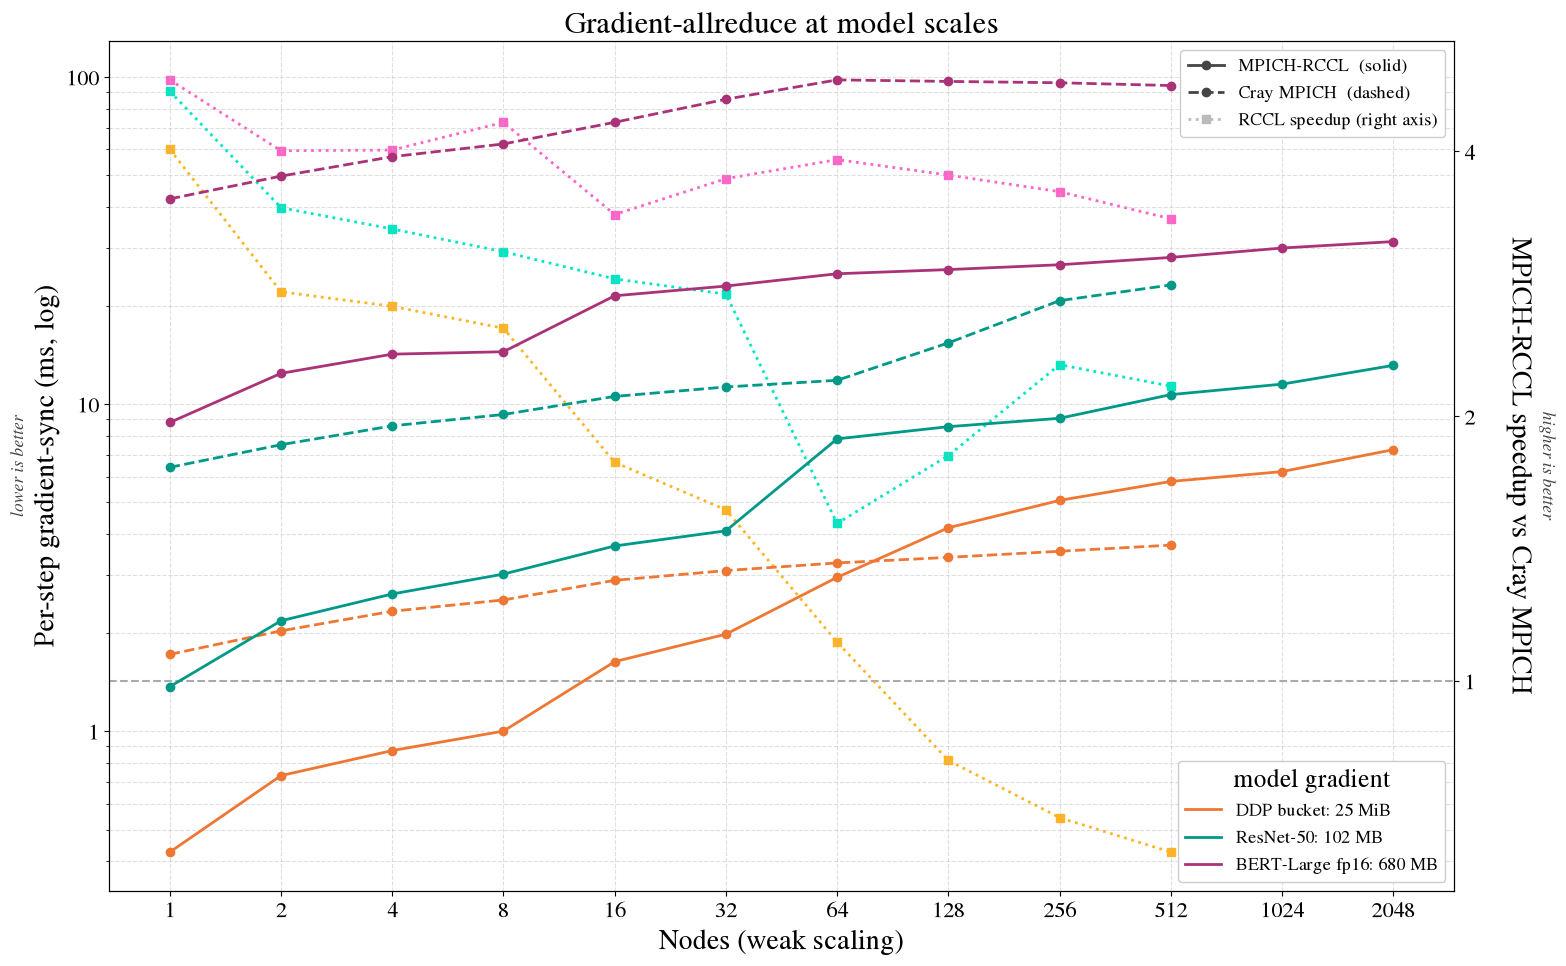
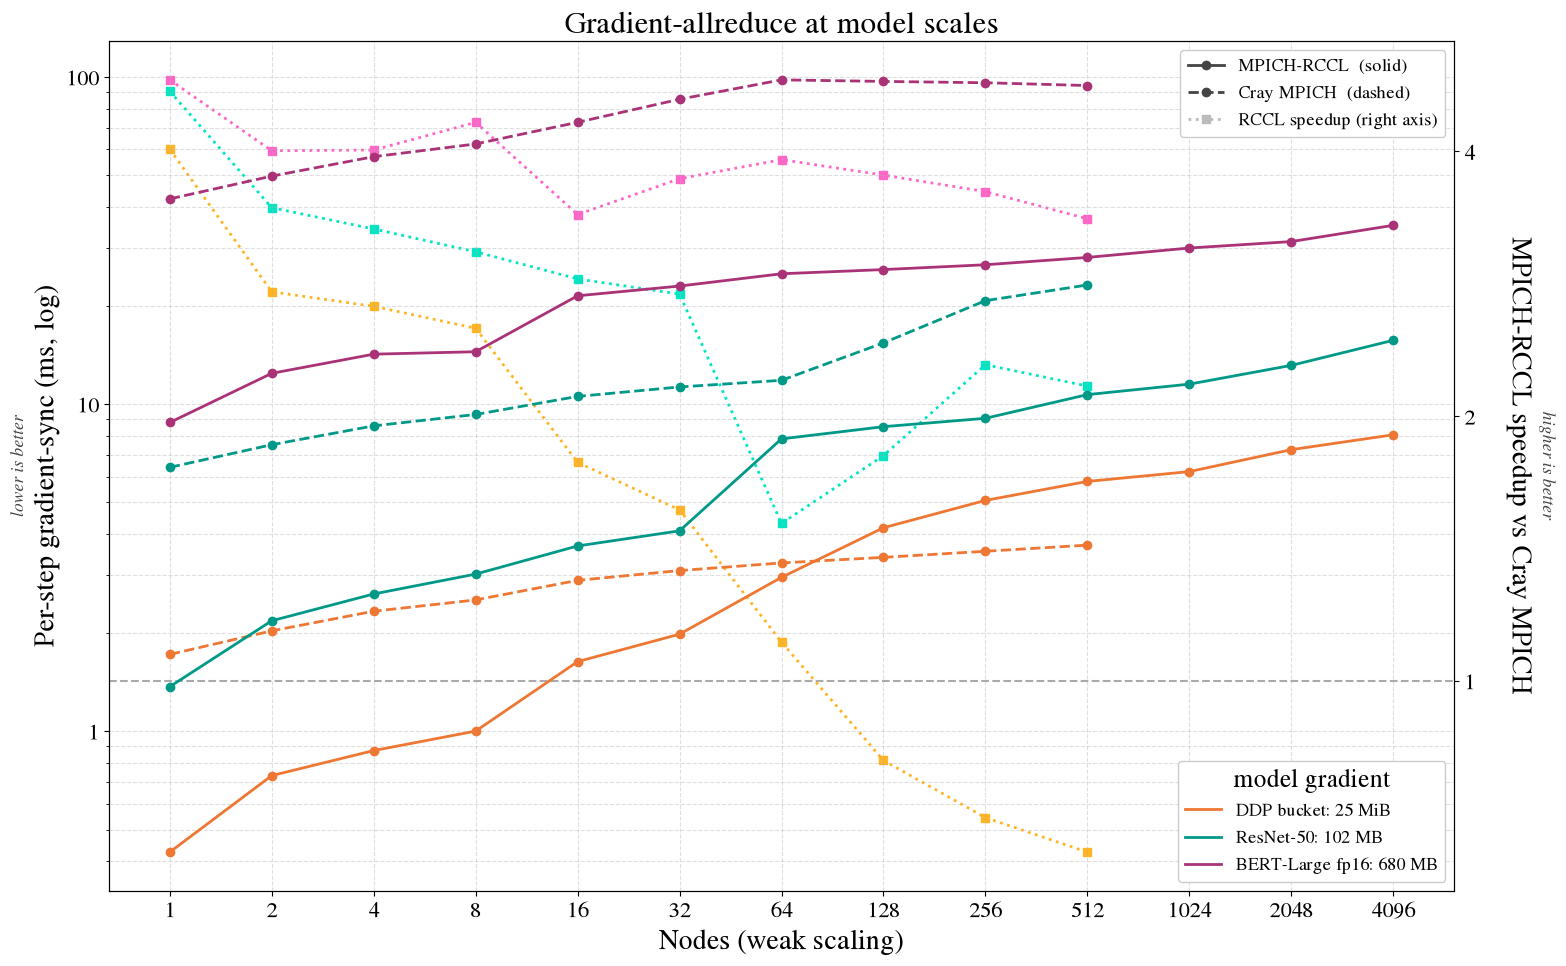
updated plots and added design doc

diff --git a/frontier/docs/DESIGN.md b/frontier/docs/DESIGN.md
@@ -1,0 +1,192 @@
+# RCCL Allreduce Backend for MPICH — Frontier Experiment Design
+
+**Target:** conference paper (SC / IPDPS / ISC / EuroMPI class)
+**Contribution under test:** MPICH `MPI_Allreduce` offloaded to RCCL (PR pmodels/mpich#7493)
+**System:** OLCF Frontier (HPE Cray EX, AMD EPYC + MI250X, Slingshot-11)
+
+> NOTE: exact queue limits, module versions, and the GCD↔NUMA binding table drift over
+> time. Every place marked **[verify OLCF]** must be checked against the current Frontier
+> User Guide (docs.olcf.ornl.gov/systems/frontier_user_guide.html) at run time.
+
+---
+
+## 1. Research questions & hypotheses
+
+| # | Question | Hypothesis |
+|---|----------|-----------|
+| RQ1 | Where is the message-size crossover between RCCL and CPU recursive-doubling? | RCCL loses below some small size (HIP stream + kernel-launch overhead), wins above it; crossover ~4–64 KiB. |
+| RQ2 | Does the intra-node (~7×) advantage hold as node count grows? | Advantage decays with scale as Slingshot latency dominates, but stays >1× for medium/large messages. |
+| RQ3 | Is MPICH+RCCL competitive with **Cray MPICH GPU-aware** (production)? | Comparable or better at large messages; this is the headline result. |
+| RQ4 | How much MPICH overhead sits above pure RCCL? | MPICH+RCCL within a small constant of `rccl-tests` ceiling; gap grows at small sizes. |
+| RQ5 | Does the win translate to a realistic ML gradient-allreduce workload? | Yes — data-parallel training is allreduce-bound, so effective step-time improves at model-scale buffer sizes. |
+
+Each RQ maps to specific plots (§8). Design experiments to *answer these*, not to produce
+numbers for their own sake.
+
+---
+
+## 2. System under test (Frontier)
+
+- 9,408 nodes. Per node: 1× 64-core AMD EPYC 7A53 "Trento" + 4× MI250X.
+- Each MI250X = 2 GCDs ⇒ **8 GCDs per node**, presented as 8 GPUs, 64 GB HBM2e each.
+- **Intra-node** GPU↔GPU: Infinity Fabric / XGMI. **Inter-node**: 4× Slingshot-11 NICs
+  (200 Gb/s each), dragonfly topology.
+- **Critical:** GCD↔NUMA mapping is non-linear. Wrong binding costs 2–3× and invalidates
+  comparisons. Use the OLCF mapping **[verify OLCF]**; validate with a 1-node bandwidth
+  sanity check before trusting any number.
+
+---
+
+## 3. Software configurations (the four baselines + contribution)
+
+All comparisons sweep the **same message sizes** on the **same node allocation** back-to-back
+to control for dragonfly placement. Five configs:
+
+| ID | Config | Buffer | Algorithm | Build / env |
+|----|--------|--------|-----------|-------------|
+| **A** | MPICH-CPU, host buffers | host | CPU allreduce | your MPICH, copy device→host→device manually |
+| **B** | MPICH-CPU, device buffers | device | CPU allreduce, GPU-aware pt2pt | your MPICH, `MPIR_CVAR_ALLREDUCE_CCL=` unset |
+| **C** | **MPICH + RCCL (contribution)** | device | `MPIR_Allreduce_intra_ccl` → RCCL | your MPICH `--with-rccl`, `MPIR_CVAR_ALLREDUCE_CCL=rccl` |
+| **D** | Cray MPICH GPU-aware | device | vendor | `module load PrgEnv-*` + `craype-accel-amd-gfx90a`, `MPICH_GPU_SUPPORT_ENABLED=1` |
+| **E** | rccl-tests (ceiling) | device | pure RCCL, no MPI | `all_reduce_perf` |
+
+**Pin and record** for reproducibility: MPICH git SHA (your PR branch), ROCm version,
+RCCL version, libfabric/CXI version, Cray PE version, and the exact `configure` line.
+
+### Build risk — your MPICH over Slingshot
+Running **non-vendor** MPICH on Frontier requires `ch4:ofi` against the **libfabric CXI
+provider**. This is the hardest setup step. Rough configure shape (**[verify OLCF]** paths):
+```bash
+./configure \
+  --prefix=$MPICH_INSTALL \
+  --with-device=ch4:ofi \
+  --with-libfabric=$OLCF_LIBFABRIC_PATH \    # CXI provider for Slingshot-11
+  --with-hip=$ROCM_PATH \
+  --with-rccl=$RCCL_PATH \
+  CC=cc CXX=CC
+```
+Prove it works on **2 nodes in the debug queue** (correctness + a nonzero inter-node
+bandwidth) before spending any node-hours on scaling.
+
+---
+
+## 4. Benchmark ladder (cheap → expensive)
+
+| Tier | What | Tool | Nodes | Purpose |
+|------|------|------|-------|---------|
+| 0 | Correctness | your test suite + fp16/fp32/fp64 allreduce vs CPU reference | 1–2 | it runs correctly on Frontier |
+| 1 | Ceiling | `rccl-tests all_reduce_perf` (config E) | 1, 2, 8 | upper bound, zero MPI overhead |
+| 2 | **Head-to-head** | **OSU `osu_allreduce -d rocm`** (A–D) | 1…1024+ | the main result |
+| 3 | ML proxy | gradient-allreduce proxy (§7) | 8…512 | realistic-workload impact (RQ5) |
+
+Use OSU Micro-Benchmarks built against **each** MPI (A/B/C use your MPICH; D uses Cray
+MPICH). rccl-tests is separate. Keep binaries per-config to avoid link contamination.
+
+---
+
+## 5. Sweep matrix (Tier 2)
+
+- **Message sizes:** 8 B → 1 GiB, powers of 2 (≈28 points). Covers latency-bound → bandwidth-bound.
+- **Datatypes:** fp32 (primary), fp16 (ML relevance), fp64 (HPC relevance). Op = SUM.
+- **Node counts (strong+weak):** 1, 2, 4, 8, 16, 32, 64, 128, 256, 512, 1024 — extend to
+  2048/4096 if hours allow. 8 ranks/node (1 per GCD).
+- **Placement isolation:** the 1-node point isolates XGMI; ≥2 nodes exercise Slingshot.
+- **Scaling modes:**
+  - *Strong:* fixed total buffer (e.g. 256 MiB), more GPUs → per-GPU shrinks.
+  - *Weak:* fixed **per-GPU** bytes (e.g. 32 MiB/GPU), total grows with GPU count.
+
+For each (size × config × nodecount): warmup ≥20 iters, measure ≥50 iters (fewer at 1 GiB),
+record **min / median / p95 / max**. Repeat the whole node-count series **≥3× on fresh
+allocations** to capture dragonfly placement variance — report median-of-medians + spread.
+
+---
+
+## 6. Methodology / rigor (reviewers will check these)
+
+- **Binding validated, not assumed.** Show the srun binding line; sanity-check intra-node
+  bandwidth against XGMI peak before trusting data.
+- **Steady state.** Discard warmup; RCCL lazily initializes communicators/streams on first call.
+- **Same allocation, back-to-back configs.** A/B/C/D for a given size run in one job so they
+  see the same nodes; don't compare across jobs allocated hours apart.
+- **Variance reported.** Error bars from the ≥3 repetitions; note that Slingshot is shared.
+- **Fair CPU baseline.** Tune CPU allreduce (config B) — don't cripple it. Use the same rank
+  count and best available CPU algorithm so the win is honest.
+- **Environment captured.** Dump `module list`, all `MPIR_CVAR_*`/`MPICH_*`, `rocm-smi`,
+  git SHAs into every result directory.
+
+---
+
+## 7. ML gradient-allreduce proxy (Tier 3, RQ5)
+
+**Why it's applicable:** data-parallel DL training synchronizes gradients every step via one
+allreduce over the flattened gradient buffer (frameworks bucket it into a few large
+allreduces). That is *exactly* the collective your backend accelerates — no other collective
+is on the critical path. So this proxy is a faithful stand-in for real training, without the
+cost/complexity of a full framework.
+
+**Design:** an MPI program that, per "step," allreduces buffers sized like real models:
+- ResNet-50: ~25.5 M params → ~102 MiB fp32 / ~51 MiB fp16
+- BERT-Large: ~340 M params → ~1.3 GiB fp32
+- GPT-2 1.5 B: ~6 GiB fp32 (bucketed)
+
+Mimic framework behavior: **bucket** into ~25 MiB chunks and allreduce each (like DDP/Horovod
+gradient bucketing). Report **allreduce time per step** and **effective allreduce bandwidth**
+across configs A–D and node counts. Headline: "communication phase of a training step is N×
+faster with the RCCL backend at 128 nodes."
+
+Keep it a proxy (buffers of the right size + dtype + bucketing), not a real model — that's the
+defensible, reproducible choice and reviewers accept it for communication studies.
+
+---
+
+## 8. Metrics & figures
+
+1. **Latency vs message size**, 1 node, all configs — shows the RQ1 crossover. (log-log)
+2. **Speedup C/B and C/D vs message size**, per node count — the core win. (=1 line marked)
+3. **Latency vs node count** at fixed sizes (small/medium/large) — RQ2 scaling. (log-x)
+4. **MPICH overhead:** C vs E (rccl-tests) — RQ4, gap vs ceiling.
+5. **Weak-scaling efficiency** vs node count.
+6. **ML proxy:** per-step allreduce time vs node count, per model size — RQ5.
+7. Table: crossover size per node count; peak speedup; where C beats D.
+
+---
+
+## 9. Node-hour budget (rough — for the allocation ask)
+
+Node-hours = nodes × wallclock. Microbench jobs are short but large-node jobs dominate cost.
+
+| Node count | Wall/job (A–D full size sweep) | Reps | Node-hours |
+|-----------:|-------------------------------:|-----:|-----------:|
+| 1–64 (per pt) | ~15 min | 3 | small (<200 total) |
+| 128 | ~15 min | 3 | ~96 |
+| 256 | ~15 min | 3 | ~192 |
+| 512 | ~15 min | 3 | ~384 |
+| 1024 | ~20 min | 3 | ~1,024 |
+| 2048 | ~20 min | 3 | ~2,048 |
+| 4096 | ~20 min | 3 | ~4,096 |
+| ML proxy | — | — | ~1,000 |
+
+**Ballpark: ~2–4k node-hours** for the core paper (through 1024 nodes + ML proxy);
+**~8–10k** if you push to 4096 and add datatype sweeps. Cheap in Frontier terms — a DD
+allocation covers it. Do all small-node development in the **debug queue** to preserve hours.
+
+---
+
+## 10. Reproducibility artifact (paper requirement)
+
+Ship a repo with: build scripts (all 5 configs), Slurm job scripts (parametrized by node
+count), the ML proxy source, a results schema (one JSON/CSV per run with full env dump), and
+the plotting harness. This doubles as your own experiment automation.
+
+---
+
+## 11. Phased execution plan
+
+- **P0 — Access & allocation.** Confirm Frontier hours; get on a project or request DD.
+- **P1 — Build.** Your MPICH (`ch4:ofi`+CXI+RCCL) on Frontier; Cray MPICH env; OSU ×MPIs;
+  rccl-tests. Debug queue only.
+- **P2 — Correctness + binding.** Tier 0/1 on 1–2 nodes; validate GCD binding.
+- **P3 — Microbench scaling.** Tier 2, 1→1024 nodes, ≥3 reps. Main data.
+- **P4 — ML proxy.** Tier 3 at model sizes.
+- **P5 — Analysis & plots.** Figures §8, crossover/scaling tables, variance.
+- **P6 — Writeup + artifact.**